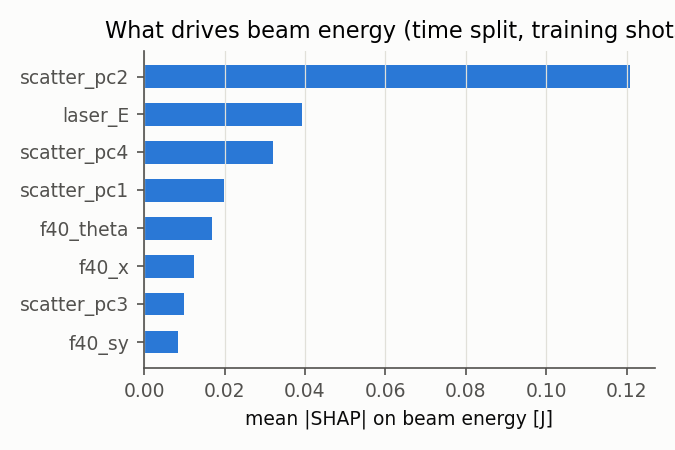
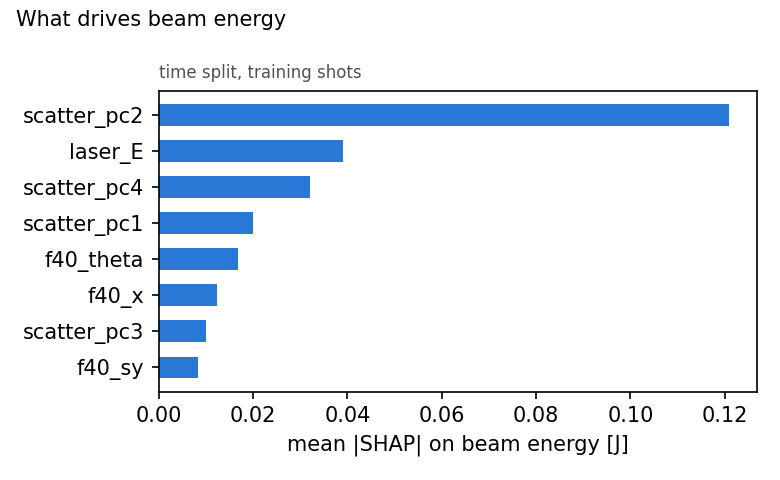
Fix clipped title in SHAP figure
Shorter left-aligned title with a subtitle, slightly wider figure, and a
check that raises if any title or label falls outside the image.

Claude-Session: https://claude.ai/code/session_01APk2cy7i9J7sxiUNnCr4Qo

Changed region(s): [[0.0311, 0.1244, 0.9956, 0.9644], [0.0, 0.0, 0.9956, 0.0933]]

diff --git a/scripts/run_stage1.py b/scripts/run_stage1.py
@@ -136,11 +136,19 @@ def plots(name, d, te, preds, Yte, Wte):
 def plot_shap(shap):
     import matplotlib.pyplot as plt
     names = [n for n, _ in shap][::-1]; vals = [v for _, v in shap][::-1]
-    fig, ax = plt.subplots(figsize=(4.5, 3))
+    fig, ax = plt.subplots(figsize=(5.2, 3.2))
     ax.barh(names, vals, color="#2a78d6", height=0.6)
     ax.set_xlabel("mean |SHAP| on beam energy [J]"); ax.grid(axis="y", visible=False)
-    ax.set_title("What drives beam energy (time split, training shots)")
-    fig.tight_layout(); fig.savefig(OUT / "shap_beam_energy.png", dpi=150); plt.close(fig)
+    fig.suptitle("What drives beam energy", fontsize=10, x=0.02, ha="left")
+    ax.set_title("time split, training shots", fontsize=8, color="#52514e", loc="left")
+    fig.tight_layout()
+    fig.canvas.draw()  # check every text element fits inside the figure
+    fb = fig.bbox
+    for t in [fig._suptitle, ax.title, ax.xaxis.label, *ax.get_yticklabels()]:
+        bb = t.get_window_extent()
+        if bb.x0 < fb.x0 - 1 or bb.x1 > fb.x1 + 1 or bb.y1 > fb.y1 + 1:
+            raise RuntimeError(f"text {t.get_text()!r} is clipped in shap_beam_energy.png")
+    fig.savefig(OUT / "shap_beam_energy.png", dpi=150); plt.close(fig)
 
 
 def main():
